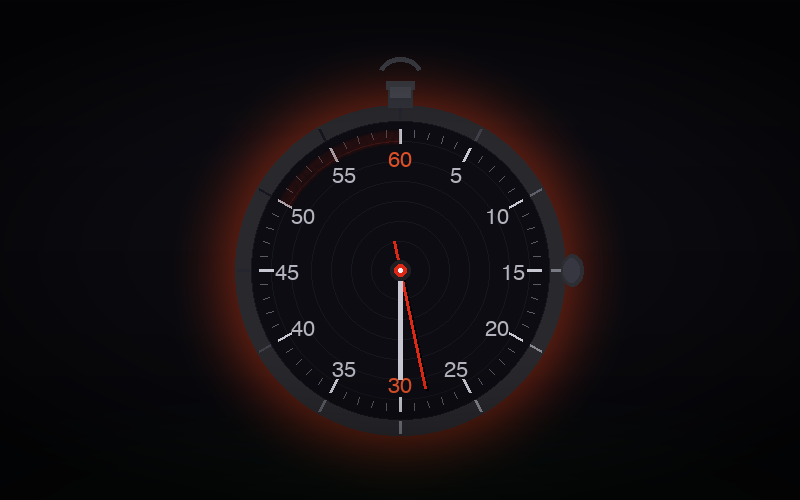
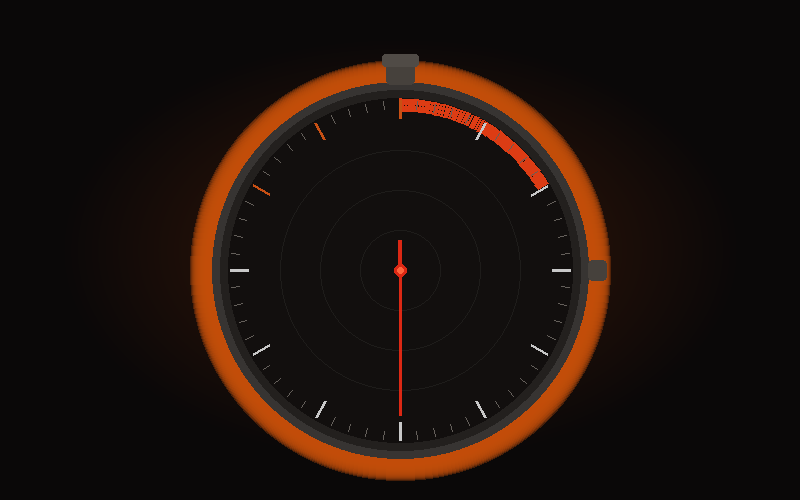
Clean up game cards: remove duplicate names/desc, add info button
- Regenerated HOL and FUP card images with no text overlays
- Removed duplicate game name and white description text from cards
- Added small 'i' info button (top-right corner) to each card
- Clicking 'i' opens a modal with full game description

diff --git a/index.html b/index.html
@@ -443,6 +443,35 @@ body::before{display:none;}
   color:#fff;line-height:1.1;margin-bottom:6px;
 }
 .game-pick-desc{font-size:0.75rem;color:#aaa;line-height:1.4;margin-bottom:16px;}
+.game-info-btn{
+  position:absolute;top:10px;right:10px;z-index:10;
+  width:26px;height:26px;border-radius:50%;
+  background:rgba(255,255,255,0.12);border:1px solid rgba(255,255,255,0.25);
+  color:#fff;font-size:0.75rem;font-weight:700;font-family:'Inter',sans-serif;
+  display:flex;align-items:center;justify-content:center;cursor:pointer;
+  transition:background 0.2s;backdrop-filter:blur(4px);
+}
+.game-info-btn:hover{background:rgba(255,255,255,0.25);}
+.game-info-modal{
+  display:none;position:fixed;inset:0;z-index:9999;
+  background:rgba(0,0,0,0.75);align-items:center;justify-content:center;
+  backdrop-filter:blur(6px);
+}
+.game-info-modal.open{display:flex;}
+.game-info-box{
+  background:#141418;border:1px solid #2a2a2a;border-radius:20px;
+  padding:32px 28px;max-width:380px;width:90%;position:relative;
+}
+.game-info-title{
+  font-family:'Anton',sans-serif;font-size:1.6rem;color:#fff;
+  margin-bottom:14px;letter-spacing:1px;
+}
+.game-info-body{font-size:0.9rem;color:#bbb;line-height:1.65;}
+.game-info-close{
+  position:absolute;top:14px;right:16px;background:none;border:none;
+  color:#666;font-size:1.4rem;cursor:pointer;line-height:1;
+}
+.game-info-close:hover{color:#fff;}
 .game-pick-btn{
   display:inline-flex;align-items:center;gap:8px;
   padding:10px 20px;border-radius:10px;border:none;
@@ -742,33 +771,39 @@ body::before{display:none;}
   <div class="landing-title">Choose Your Game</div>
   <div class="landing-sub">Football Royal — pick a mode and prove your knowledge</div>
   <div class="game-pick-grid">
-    <div class="game-pick-card" onclick="showHigherOrLower()">
+    <div class="game-pick-card" onclick="showHigherOrLower()" style="position:relative;">
       <img class="game-pick-bg" src="Higher or lower card image.png" alt="">
+      <div class="game-info-btn" onclick="event.stopPropagation();openGameInfo('hol')" title="How to play">i</div>
       <div class="game-pick-content">
         <div class="game-pick-badge" style="background:rgba(74,222,128,0.12);border:1px solid #2d6b3e;color:#4ade80;">Higher or Lower</div>
-        <div class="game-pick-name">Higher or<br>Lower</div>
-        <div class="game-pick-desc">Guess if the next player's stat is higher or lower. 6 categories. Beat your streak.</div>
         <button class="game-pick-btn" style="background:#4ade80;color:#000;">Play Now ›</button>
       </div>
     </div>
-    <div class="game-pick-card" onclick="showElGrande()">
+    <div class="game-pick-card" onclick="showElGrande()" style="position:relative;">
       <img class="game-pick-bg" src="Football under pressure card image.png" alt="">
+      <div class="game-info-btn" onclick="event.stopPropagation();openGameInfo('fup')" title="How to play">i</div>
       <div class="game-pick-content">
         <div class="game-pick-badge" style="background:rgba(232,185,35,0.12);border:1px solid #7a5f00;color:#e8b923;">Football Under Pressure</div>
-        <div class="game-pick-name">Football<br>Under Pressure</div>
-        <div class="game-pick-desc">Name as many players as you can before the clock runs out. Hot-seat. 30 seconds.</div>
         <button class="game-pick-btn" style="background:#e8b923;color:#000;">Play Now ›</button>
       </div>
     </div>
-    <div class="game-pick-card" onclick="showSxi()">
+    <div class="game-pick-card" onclick="showSxi()" style="position:relative;">
       <img class="game-pick-bg" src="Starting XI card image.png" alt="">
+      <div class="game-info-btn" onclick="event.stopPropagation();openGameInfo('sxi')" title="How to play">i</div>
       <div class="game-pick-content">
         <div class="game-pick-badge" style="background:rgba(255,215,0,0.12);border:1px solid #7a5f00;color:#FFD700;">Starting XI</div>
-        <div class="game-pick-name">Starting<br>XI</div>
-        <div class="game-pick-desc">Name the starting 11 from iconic World Cup winning teams. 1 player or 2.</div>
         <button class="game-pick-btn" style="background:#FFD700;color:#000;">Play Now ›</button>
       </div>
     </div>
+  </div>
+</div>
+
+<!-- GAME INFO MODAL -->
+<div class="game-info-modal" id="gameInfoModal" onclick="closeGameInfo()">
+  <div class="game-info-box" onclick="event.stopPropagation()">
+    <button class="game-info-close" onclick="closeGameInfo()">✕</button>
+    <div class="game-info-title" id="gameInfoTitle"></div>
+    <div class="game-info-body" id="gameInfoBody"></div>
   </div>
 </div>
 
@@ -1234,6 +1269,31 @@ function closeAllOverlays(){
     const el=document.getElementById(id); if(el) el.style.display='none';
   });
 }
+const GAME_INFO = {
+  hol: {
+    title: 'Higher or Lower',
+    body: `Two players, one stat — is the next number higher or lower? Choose from 6 categories: Career Goals, Assists, Major Trophies, International Goals, Appearances, and International Caps. Each correct answer extends your streak. One wrong answer and it's over. How far can you go?`
+  },
+  fup: {
+    title: 'Football Under Pressure',
+    body: `The clock is ticking — you've got 30 seconds. A category appears and you have to name as many players as possible before time runs out. Play solo and beat your record, or pass it to a mate and see who knows their football. No pressure... well, actually, loads of pressure.`
+  },
+  sxi: {
+    title: 'Starting XI',
+    body: `Can you name every player who started in some of football's greatest finals? Pick a tournament — World Cup, Champions League, Euros or Copa América — then choose a team. Type in the names and fill the pitch. Play solo or go head-to-head: one player on each side of the screen. First to complete the XI wins.`
+  }
+};
+function openGameInfo(key){
+  const info = GAME_INFO[key];
+  if(!info) return;
+  document.getElementById('gameInfoTitle').textContent = info.title;
+  document.getElementById('gameInfoBody').textContent = info.body;
+  document.getElementById('gameInfoModal').classList.add('open');
+}
+function closeGameInfo(){
+  document.getElementById('gameInfoModal').classList.remove('open');
+}
+
 function setBackBtn(label, fn){
   const btn=document.getElementById('globalBackBtn');
   if(!label){ btn.style.display='none'; btn.onclick=null; return; }
